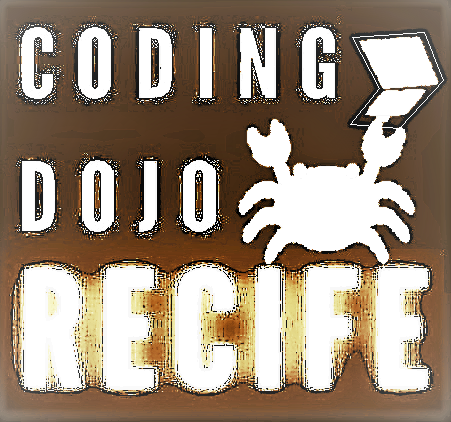
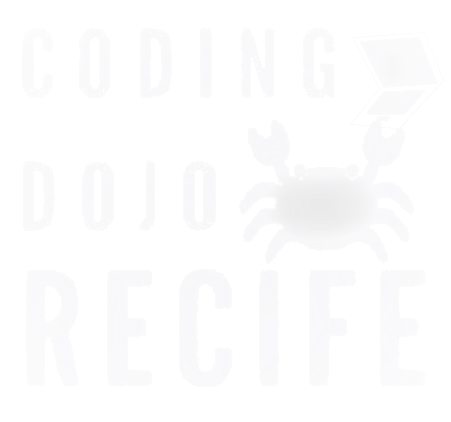
Improved Navbar UI/UX.

diff --git a/main.css b/main.css
@@ -186,6 +186,10 @@ footer {
     background-image: url('./assets/images/footer-background.png');
     background-size: cover;
 
+    margin-top: 1.5vw;
+
+    height: 300px;
+
     opacity: 0.85;
 
 }
@@ -198,6 +202,8 @@ footer {
     align-content: center;
     justify-content: center;
     justify-items: center;
+
+    height: 100%;
 
 }
 
@@ -493,7 +499,19 @@ input[type=checkbox] {
 }
 
 
+.dojo-badge-bg{
 
+    
+    background-color: rgba(249, 249, 249, 0.684);
+    background-image: url('./assets/images/Pedra-Portuguesa.jpg');
+    background-image: cover;
+    border-width: 0px; 
+    border-color: #222; 
+    border-style: solid; 
+
+
+
+}
 
 .dojo-badge {
     
@@ -578,7 +596,9 @@ input[type=checkbox] {
 
 
     background-image: linear-gradient(90deg, transparent,rgb(255, 0, 187),rgb(255, 0, 187));
-    background-image: url('./assets/images/sidewalks/manguezal3.png');
+    /* background-image: url('./assets/images/sidewalks/manguezal3.png'); */
+    background-image: url('./assets/images/sidewalks/pastilhas.jpg');
+
     height: 100%;
 
     margin: 0;
@@ -592,15 +612,17 @@ input[type=checkbox] {
     
 }
 
+
 .dojo-badge-grid-top {
     
     display: grid;
     grid-template-columns: 3fr 1fr;
     grid-template-rows: 1fr;
 
-    background-image: linear-gradient(0deg,rgb(255, 0, 187), transparent);
-    background-image: url('./assets/images/sidewalks/manguezal3.png');
-    
+    /* background-image: linear-gradient(0deg,rgb(255, 0, 187), transparent); */
+    /* background-image: url('./assets/images/sidewalks/manguezal3.png'); */
+
+    background-image: url('./assets/images/sidewalks/pastilhas.jpg');    
 }
 
 .info-box-container{
@@ -611,13 +633,14 @@ input[type=checkbox] {
     display: grid;
 
     grid-template-columns: 1fr 1fr 1fr;
+    grid-template-rows: 1fr;
 
     justify-content: center;
     justify-items: center;
     align-content: center;
     align-items: center;
     
-    background-color: #f4f4f465;
+    background-image: linear-gradient(90deg, rgba(126, 126, 126, 0.598), rgba(180, 180, 180, 0.685),rgba(133, 133, 133, 0.763),  rgba(177, 177, 177, 0.763),  rgba(133, 133, 133, 0.763),rgba(97, 97, 97, 0.763));
     
 
 }
@@ -636,8 +659,22 @@ input[type=checkbox] {
     align-content: center;
     align-items: center;
     
-    background-color: #f4f4f465;
+    background-image: linear-gradient(0deg,  rgba(97, 97, 97, 0.763),  rgba(159, 159, 159, 0.763),  rgba(168, 168, 168, 0.763),   rgba(137, 137, 137, 0.575));
 
+}
+
+.navbar-img-extra{
+
+    height: 100%;
+    width: 100%;
+}
+
+.navbar-img{
+
+    height: 100%;
+    width: 50%;
+
+    border-radius: 70%;
 }
 
 .info-box{
@@ -676,7 +713,7 @@ input[type=checkbox] {
 
 .info-box:hover, .info-box-extra:hover{
 
-    background-image: linear-gradient(170deg,rgba(243, 243, 243, 0.918), rgba(255, 255, 255, 0.856));
+    background-image: linear-gradient(170deg,rgba(243, 243, 243, 0.495), rgba(255, 255, 255, 0.358));
 
 }
 
@@ -716,7 +753,9 @@ input[type=checkbox] {
 
 #dojo-art {
     
-    border-radius: 0.2vw;
+    border-style: solid;
+    border-width: 0 0.5vw 0.5vw 0;
+    border-color: rgba(228, 228, 228, 0.914);
     padding: 5px;
     opacity: 1;
 
@@ -1085,7 +1124,7 @@ input[type=checkbox] {
 
 .social-media-mod:hover{
 
-    color: rgb(163, 24, 168);
+    color: rgb(17, 17, 17);
 
     background-image: linear-gradient(0deg,  transparent ,rgb(238, 238, 250), transparent);
     border-radius: 50%;
@@ -1261,7 +1300,7 @@ body {
     
     /* background-image: url('./assets/images/body-background.gif'); */
     /* background-color: rgba(218, 218, 218, 0.88); */
-    background-image: linear-gradient(130deg,  rgb(240, 240, 240),  rgba(235, 235, 235, 0.918),  rgba(218, 218, 218, 0.88),  rgb(220, 220, 220) );
+    background-image: linear-gradient(130deg,  rgb(240, 240, 240),  rgb(255, 255, 255),  rgba(255, 255, 255, 0.88),  rgb(220, 220, 220) );
 
     background-size: cover;
     
@@ -1286,8 +1325,8 @@ body {
 
 .card {
 
-    margin-bottom: 0.5vw;   
-    margin-top: 0vw;     
+    margin-bottom: 0;   
+    margin-top: 1.5vw;     
 }
 .card .h2, .card h2 {
     margin-top: 0;
@@ -1491,7 +1530,7 @@ footer img{
 	justify-self: center;
 	opacity: 1;
     margin: 2vw 0 2vw 0;
-    width:8vw; 
+    width: 8vw; 
     height: 10.5vw;
     
 }

diff --git a/index.html b/index.html
@@ -69,20 +69,20 @@
 
             <div class="dojo-badge-grid-top" >
               
-              <div style="background-image: url('./assets/images/sidewalks/manguezal2.png') ;border-width: 0px; border-color: #222; border-style: solid; background-color: rgb(249, 249, 249);">
+              <div class="dojo-badge-bg">
                 <a  href=""><img onmouseover="{moddedLogo()}" onmouseout="{normalLogo()}" id="dojo-art" src="./assets/images/dojo-badge.png" width="100%" height="100%"></a>
               </div> 
 
               <div class="extra-box-container" >
 
                 <div  onclick = "{markSelectionExtra(0);}" onmouseover="{showTitle('SEJA UM HOST')}" onmouseleave="{showTitle('')}" class="info-box-extra">
-                  <img src="./assets/images/hostEvent.png" width="80%">
+                  <img class="navbar-img-extra" id="navbar-img-4" src="./assets/images/hostEvent.png" width="85%">
                 </div>
                 <div  onclick = "{markSelectionExtra(1);}" onmouseover="{showTitle('DESAFIOS')}" onmouseleave="{showTitle('')}" class="info-box-extra">
-                  <img src="./assets/images/challenge.png" width="100%">
+                  <img class="navbar-img-extra" id="navbar-img-5" src="./assets/images/challenge.png" width="75%">
                 </div>
                 <div  onclick = "{markSelectionExtra(2);}" onmouseover="{showTitle('DÚVIDAS')}" onmouseleave="{showTitle('')}" class="info-box-extra">
-                  <img src="./assets/images/howItWorks.png" width="100%">
+                  <img class="navbar-img-extra" id="navbar-img-6" src="./assets/images/howItWorks.png" width="75%">
                 </div>
 
               </div>
@@ -94,18 +94,18 @@
               <div  class="info-box-container">
 
                 <div  onclick = "{calendarViewerOn(); markSelection(0);}" onmouseover="{showTitle('SELECIONAR EVENTO')}" onmouseleave="{showTitle('')}" class="info-box">
-                  <img src="./assets/images/calendar.png" width="50%">
+                  <img class="navbar-img" id="navbar-img-1" src="./assets/images/calendar.png" width="35%">
                 </div>
                 
                 <div onclick = "{mapViewerOn(); markSelection(1);}" onmouseover="{showTitle('VER LOCALIZAÇÃO')}" onmouseleave="{showTitle('')}" class="info-box">
-                  <img src="./assets/images/map.png" width="50%">
+                  <img class="navbar-img" id="navbar-img-2" src="./assets/images/map.png" width="15%">
                 </div>
                 
-                <div  id="event-register"  href="https://www.bit.ly/dojorecife7">
+                
                 <div onclick = "{registerViewerOn(); markSelection(2);}" onmouseover="{showTitle('PARTICIPAR')}" onmouseleave="{showTitle('')}" class="info-box">
-                  <img src="./assets/images/register.png" width="50%" style="padding: 0.3vw;">
+                  <img class="navbar-img" id="navbar-img-3" src="./assets/images/register.png" width="35%">
                 </div>
-              </div>
+
 
               </div>
               

diff --git a/uiAnimations.js b/uiAnimations.js
@@ -56,9 +56,9 @@ setTimeout(() => {
 
 
 
-function moddedLogo(){document.getElementById('dojo-art').src="./assets/images/dojo-badge-alt.png";}
+function moddedLogo(){document.getElementById('dojo-art').style.transform = 'scale(1.01)';}
 
-function normalLogo(){document.getElementById('dojo-art').src="./assets/images/dojo-badge.png";}
+function normalLogo(){document.getElementById('dojo-art').style.transform = 'scale(1.0)';}
 
 
 

diff --git a/navbar.js b/navbar.js
@@ -92,7 +92,7 @@ function showTitle(menuOptionTitle) {
     }else{document.getElementById('menu-option-title').style.backdropFilter = 'blur(0px)';}
     
     
-    
+
 
 
 }
